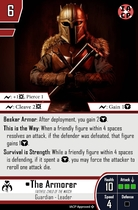
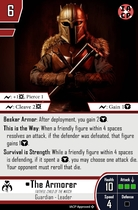
Updated The Armorer text

diff --git a/CHANGELOG.md b/CHANGELOG.md
@@ -47,6 +47,7 @@ and this project adheres to [Semantic Versioning](https://semver.org/spec/v2.0.0
 - **PT filter button:** Toggle beside FFG/IACP/ALL to show only playtest cards; turns AUTO off when enabled and restores AUTO when disabled. Tooltip: "Isolate Playtesting Cards".
 
 ### Changed
+- Updated The Armorer text (2026-09-27)
 - Updated The Armorer last ability text. (2026-09-27)
 - Corrected Paz Vizsla card defence die (was white). (2026-09-26)
 - Updated Purge Commander Artwork (2026-09-23)
